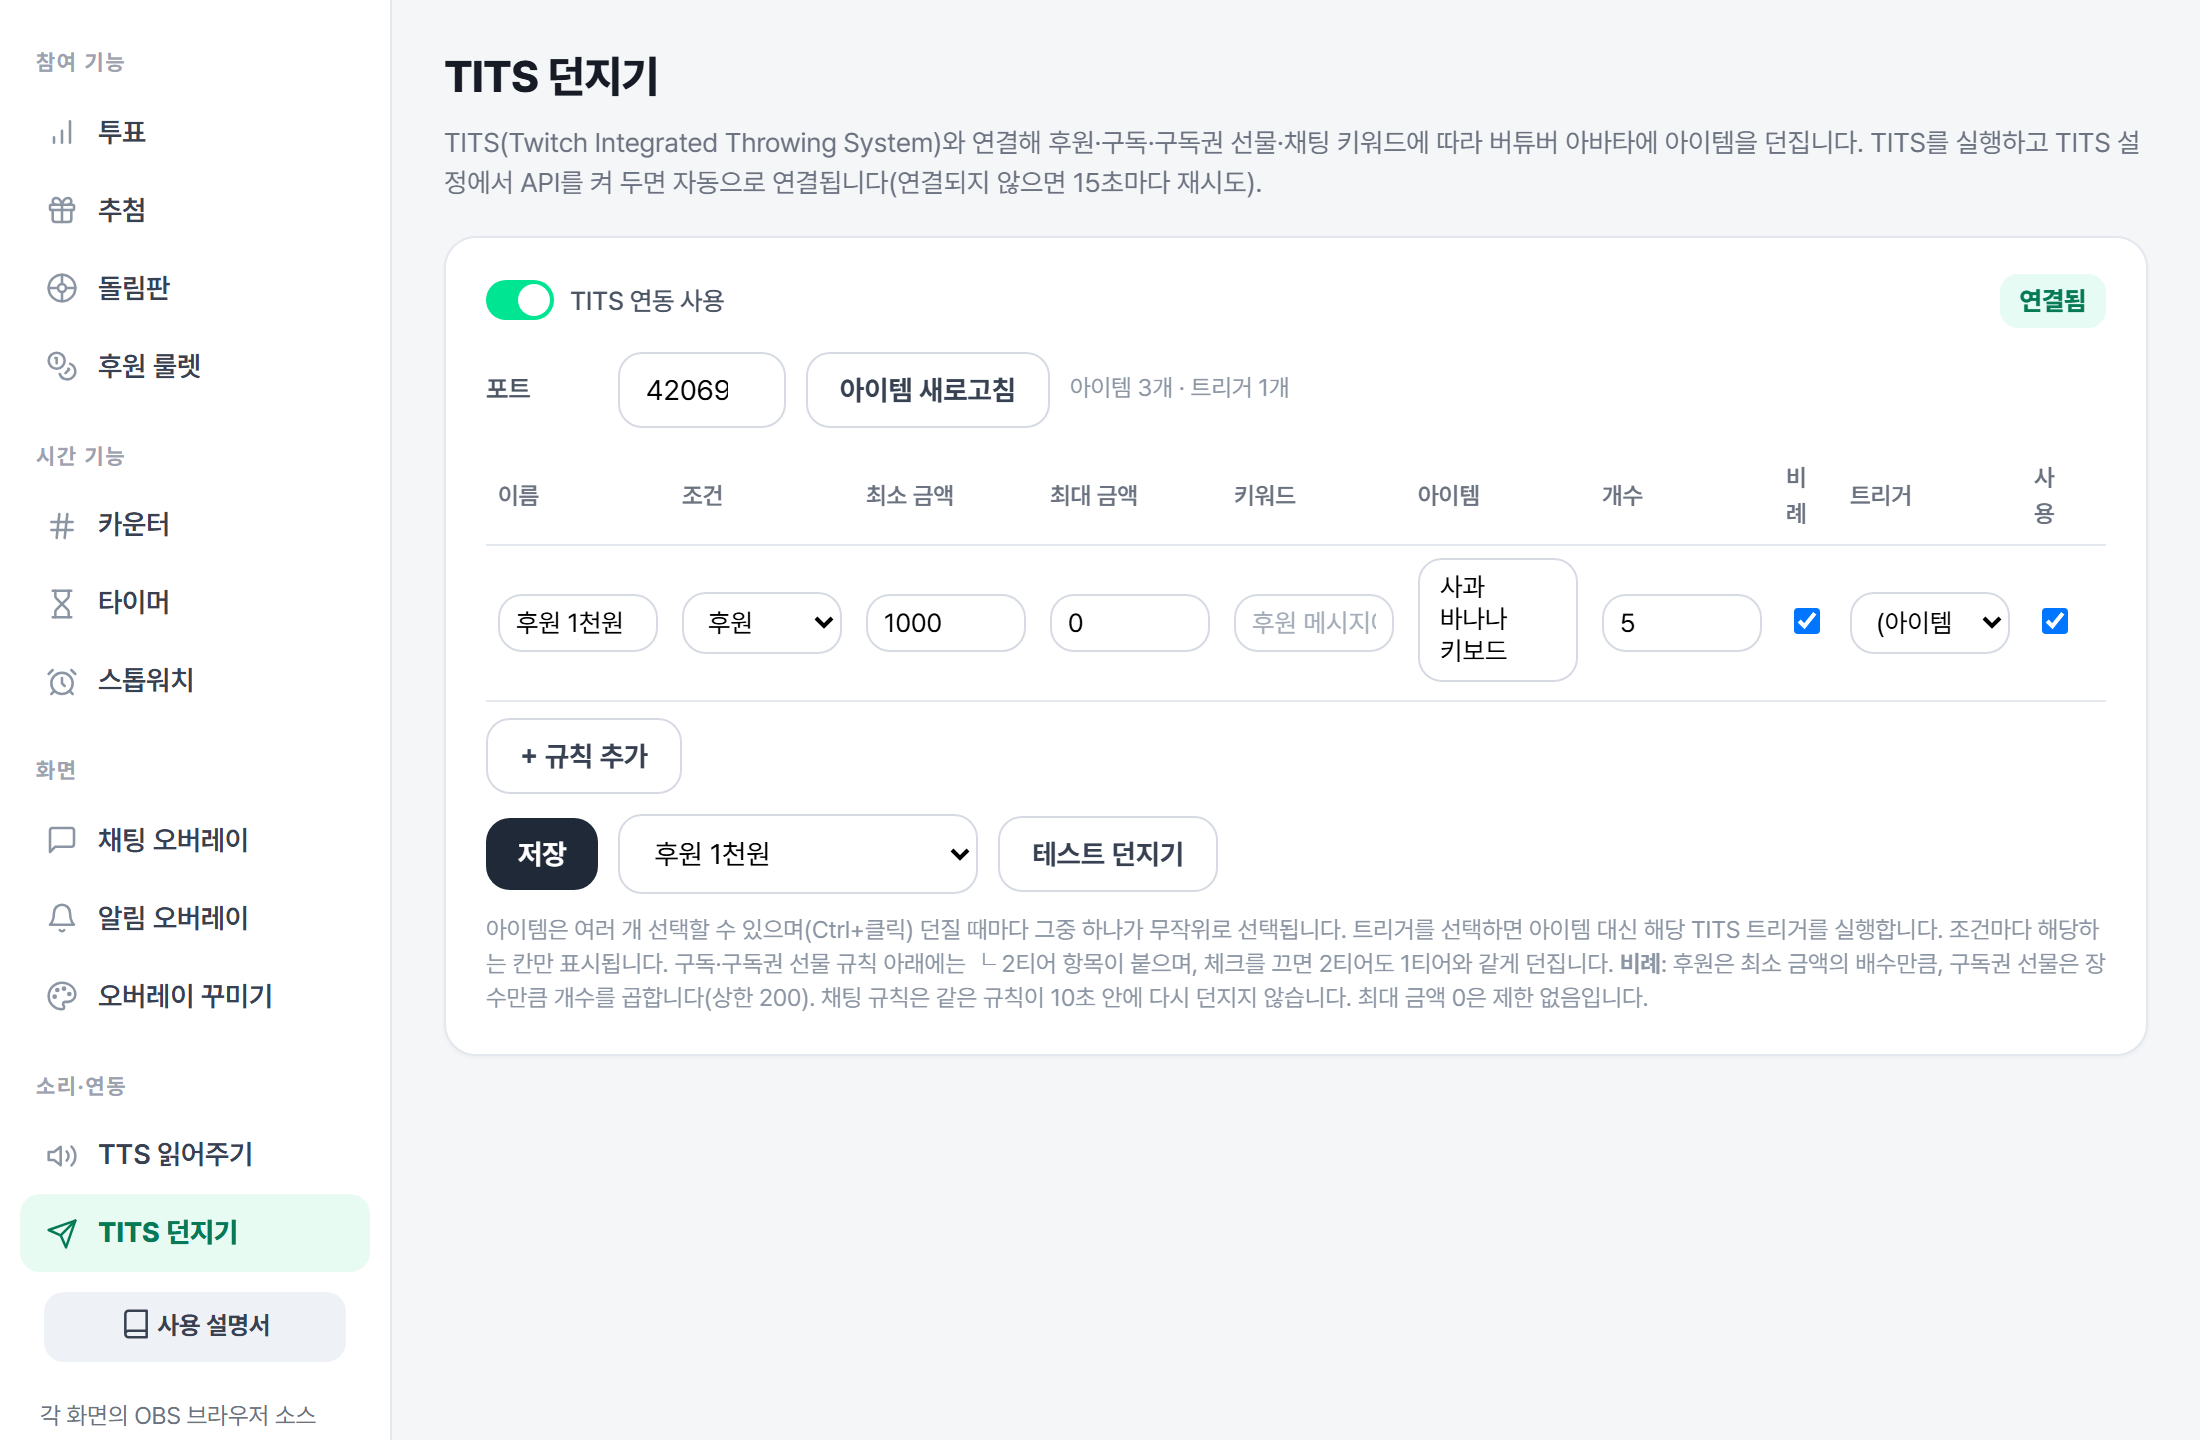
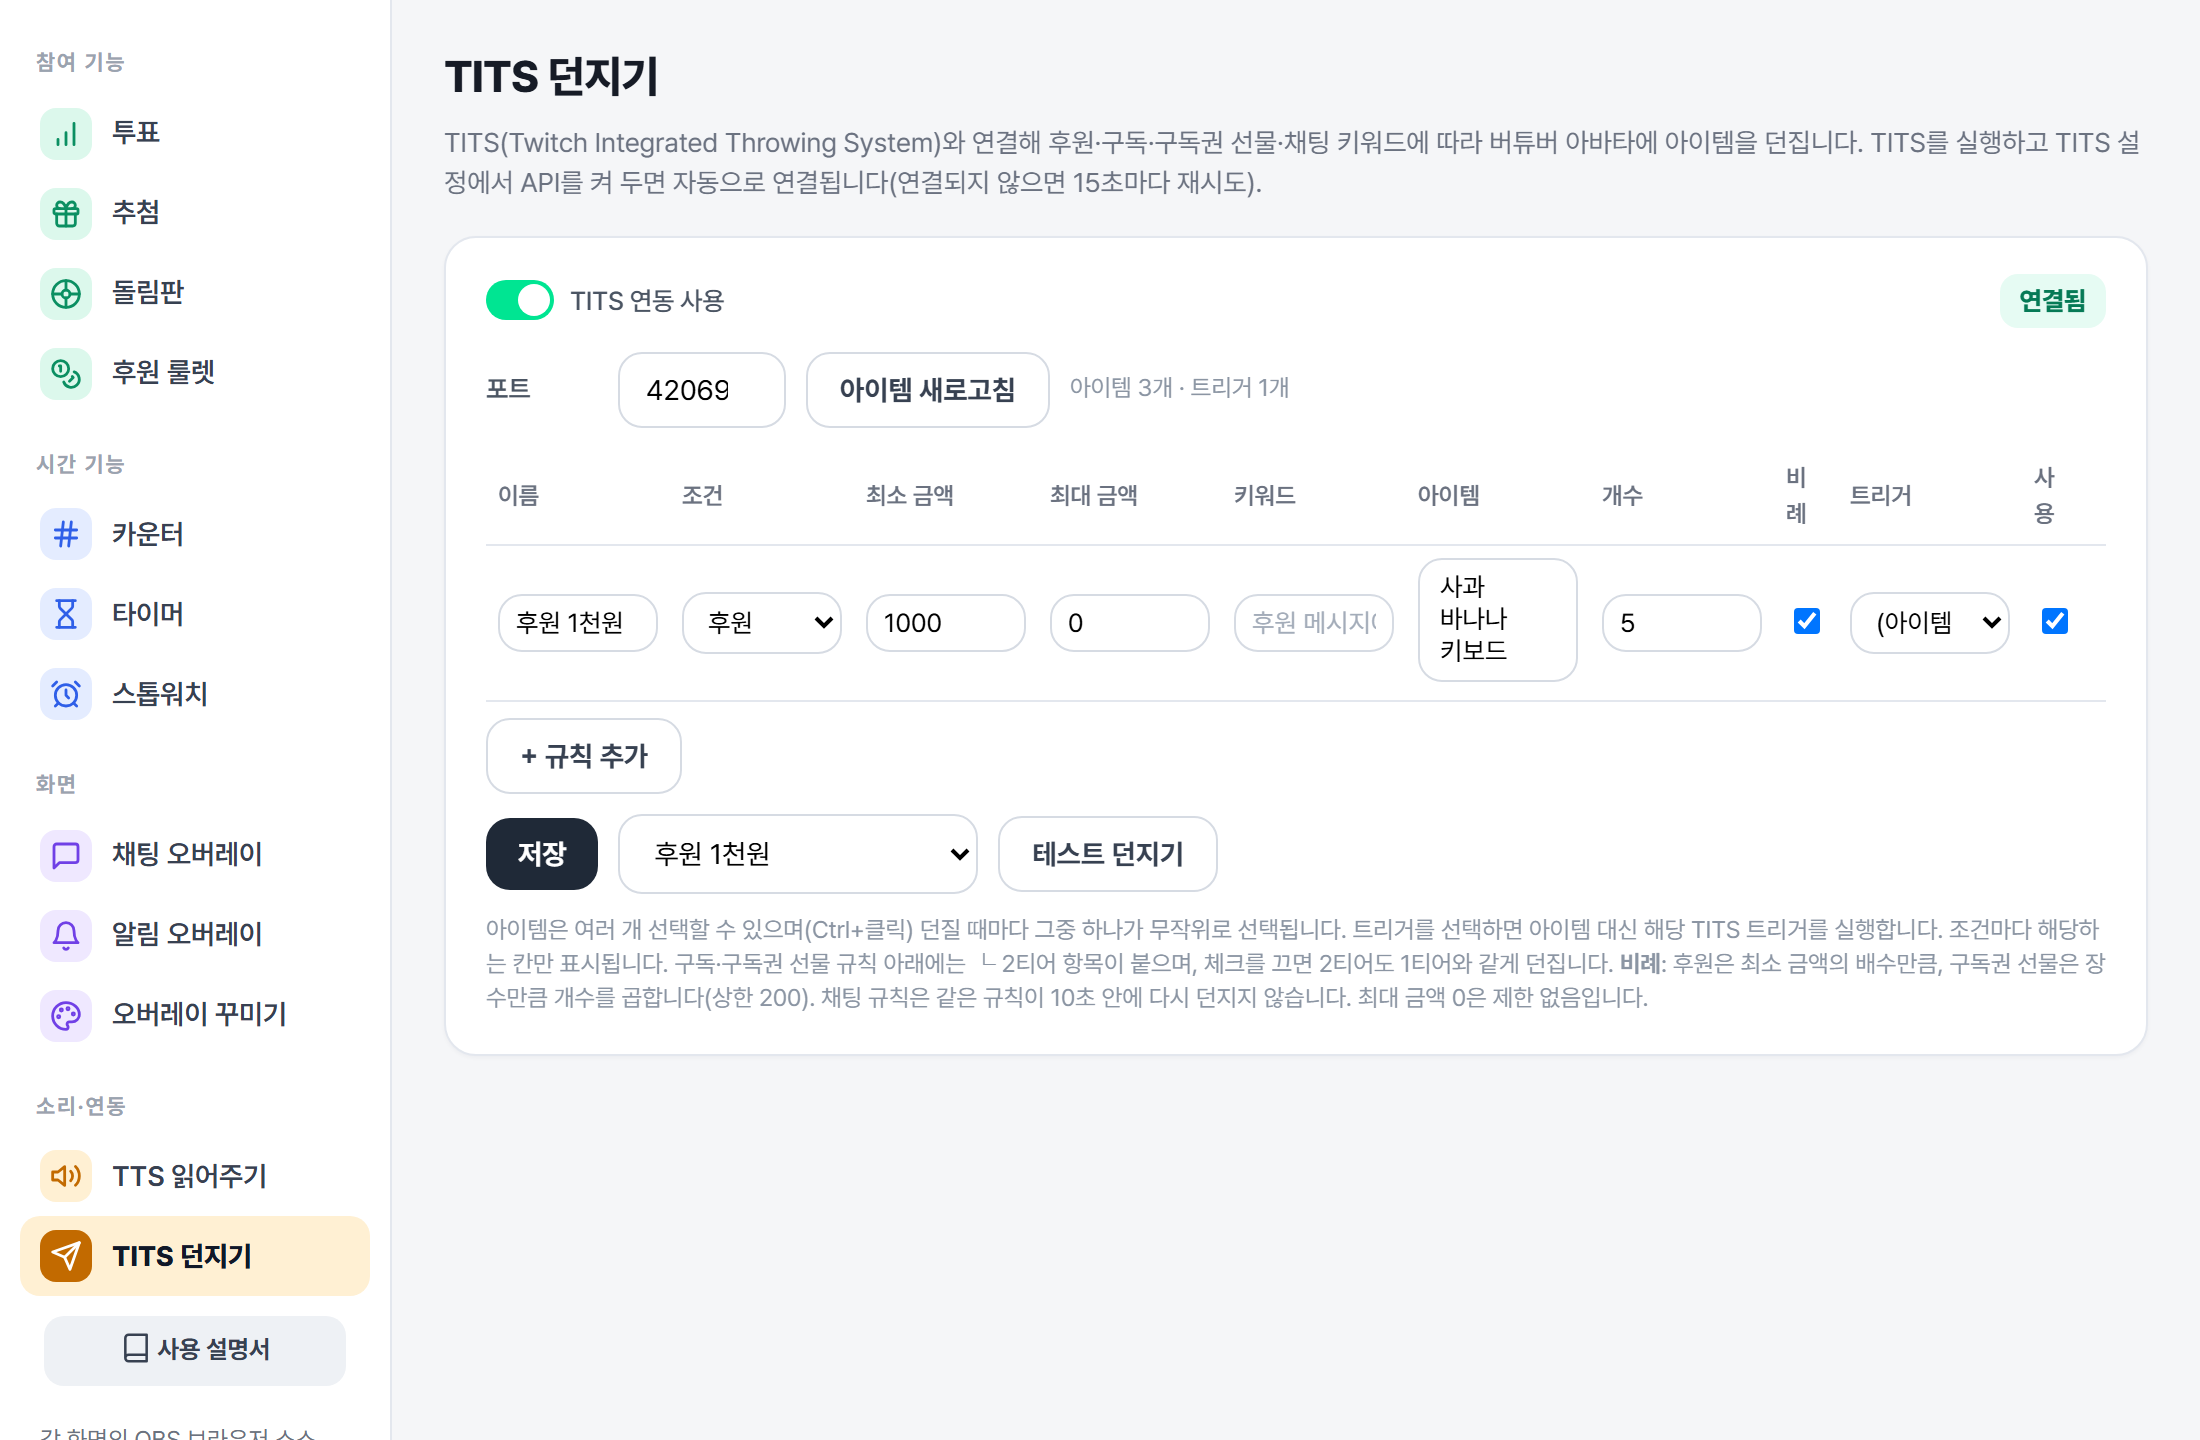
앱 화면 사진 재촬영: 목차 아이콘을 그룹 색 타일로(초록·파랑·보라·주황), 홈 합성 v12

diff --git a/guide/overlay/index.html b/guide/overlay/index.html
@@ -158,7 +158,7 @@
       </ul>
 
       <h2 id="chat">채팅 오버레이</h2>
-      <img src="/img/shots/features-chat.png?v=190924" width="1100" height="720" alt="아인 기능 창 — 채팅 오버레이 화면. 프리셋, 글꼴, 크기, 닉네임 색, 배경, 테두리 설정과 오른쪽 미리보기" loading="lazy">
+      <img src="/img/shots/features-chat.png?v=190924b" width="1100" height="720" alt="아인 기능 창 — 채팅 오버레이 화면. 프리셋, 글꼴, 크기, 닉네임 색, 배경, 테두리 설정과 오른쪽 미리보기" loading="lazy">
       <p>방송 화면에 채팅을 띄웁니다. 기본은 <b>흰 둥근 상자에 검은 글씨</b>입니다. 닉네임 옆 아이콘은 치지직 채팅창이 주는 배지(방장 왕관, 관리자, 구독 배지 등)만 그리고, 아인이 따로 붙이는 표시는 없습니다. 닉네임 색과 꾸미기(치트키 색, 2티어 그라데이션·하이라이트)도 치지직 채팅창과 같은 규칙으로 나옵니다.</p>
       <div class="tbl"><table>
         <tr><th>항목</th><th>뜻</th></tr>
@@ -217,7 +217,7 @@
       </ul>
 
       <h2 id="tits">TITS 던지기</h2>
-      <img src="/img/shots/features-tits.png?v=190924" width="1100" height="720" alt="아인 기능 창 — TITS 던지기 화면. 연결됨 표시, 포트, 아이템 새로고침, 규칙표(조건·금액·키워드·아이템·개수·비례·트리거)" loading="lazy">
+      <img src="/img/shots/features-tits.png?v=190924b" width="1100" height="720" alt="아인 기능 창 — TITS 던지기 화면. 연결됨 표시, 포트, 아이템 새로고침, 규칙표(조건·금액·키워드·아이템·개수·비례·트리거)" loading="lazy">
       <p>TITS(Twitch Integrated Throwing System)는 시청자가 버튜버 아바타에 물건을 던지게 하는 프로그램입니다. 원래 트위치·유튜브만 알아듣는데, 아인이 치지직의 후원·구독·구독권 선물·채팅을 TITS에 전달합니다.</p>
       <div class="note"><b>준비물.</b> VTube Studio(Steam, 무료)와 TITS(Steam, ₩21,500 · 유료). 둘 다 같은 PC에 설치합니다. 아인은 TITS의 공개 API(내 PC 안 포트 42069)로만 말하고 인터넷으로 나가지 않습니다.</div>
       <h3>연결 순서</h3>

diff --git a/guide/participation/index.html b/guide/participation/index.html
@@ -148,7 +148,7 @@
       </div>
 
       <h2 id="open">기능 창 여는 법</h2>
-      <img src="/img/shots/features-vote.png?v=190924" width="1100" height="720" alt="아인 기능 창 — 투표 화면. 질문과 보기 입력, 시간 선택, 투표 시작 버튼, 오른쪽에 실시간 집계" loading="lazy">
+      <img src="/img/shots/features-vote.png?v=190924b" width="1100" height="720" alt="아인 기능 창 — 투표 화면. 질문과 보기 입력, 시간 선택, 투표 시작 버튼, 오른쪽에 실시간 집계" loading="lazy">
       <p>아인 창에서 <b>봇을 켠 다음</b> [⚙ 설정] 아래의 <b>[✦ 기능]</b> 버튼을 누르세요. 투표와 추첨이 채팅을 읽어야 하기 때문에 봇이 꺼져 있으면 열리지 않습니다.
         창 왼쪽 목록에서 투표·추첨·돌림판·후원 룰렛(참여 기능)과 카운터·타이머·스톱워치(시간 기능)를 고릅니다. 채팅·알림 오버레이(화면)와 TTS·TITS(소리·연동)는 <a href="/guide/overlay/">화면·소리 가이드</a>에 따로 정리했습니다.</p>
       <p>이 창은 봇이 켜져 있는 동안 내 컴퓨터 안에서만 동작합니다. 다른 사이트에 접속하거나 별도로 가입할 것이 없습니다.</p>
@@ -196,7 +196,7 @@
         <li>결과는 날짜와 함께 기록에 남아 나중에 볼 수 있습니다.</li>
       </ul>
 
-      <img src="/img/shots/features-wheel.png?v=190924" width="1100" height="720" alt="아인 기능 창 — 돌림판 화면. 항목·확률·색 표와 미리보기 원판, 돌리기 버튼" loading="lazy">
+      <img src="/img/shots/features-wheel.png?v=190924b" width="1100" height="720" alt="아인 기능 창 — 돌림판 화면. 항목·확률·색 표와 미리보기 원판, 돌리기 버튼" loading="lazy">
 
       <h2 id="roulette">후원 룰렛</h2>
       <p>정해 둔 금액이 후원되면 방송 화면에서 룰렛이 <b>자동으로</b> 돌고, 다 돌면 결과가 채팅에 올라갑니다. <b>처음에는 꺼져 있습니다.</b> 쓰려면 [후원 룰렛 사용] 스위치를 켜고 [저장]을 누르세요. 끄면 새 후원부터 멈추고, 이미 들어온 후원의 회전은 마저 돕니다. 규칙은 여러 개 둘 수 있습니다.</p>

diff --git a/guide/commands/index.html b/guide/commands/index.html
@@ -269,7 +269,7 @@
 
       <h2 id="settings">문구와 이름 바꾸기</h2>
       <p>아인 창의 [설정]을 누르면 브라우저에 설정 화면이 열립니다. <b>명령어 설정</b> 항목에서 아래를 바꿀 수 있고, 저장하면 봇이 켜진 상태에서도 바로 반영됩니다. API 키나 봇 계정을 바꿨을 때만 봇을 껐다 켜면 됩니다.</p>
-      <img src="/img/settings.png?v=190924" alt="아인 설정 창 — 기본 설정 화면. 왼쪽 목록에 계정·채팅·기타 항목, 오른쪽에 시청자 호칭·명령어 앞 기호·대기시간 칸" width="1040" height="720" loading="lazy">
+      <img src="/img/settings.png?v=190924b" alt="아인 설정 창 — 기본 설정 화면. 왼쪽 목록에 계정·채팅·기타 항목, 오른쪽에 시청자 호칭·명령어 앞 기호·대기시간 칸" width="1040" height="720" loading="lazy">
       <ul>
         <li><b>시청자를 부르는 방식</b>: 기본은 "{이름} 치수". "{이름} 님", "{이름}아" 처럼 방송 분위기에 맞게.</li>
         <li><b>명령어 앞 기호</b>: 기본은 <code>!</code>. 다른 봇과 겹치면 <code>?</code>나 <code>#</code>으로.</li>

diff --git a/guide/install/index.html b/guide/install/index.html
@@ -240,7 +240,7 @@
             <img src="/img/chzzk-profile-edit.png" alt="치지직 프로필 편집 창 — 닉네임 칸과 30일 변경 제한 안내" width="352" loading="lazy">
           </li>
           <li>연결은 <b>[봇 계정으로 로그인]</b> 버튼 하나입니다 (1.8). 초기 설정 3단계나 [설정] → 봇 계정에서 누르면 로그인 창이 열리고, 거기서 <b>부계정으로</b> 로그인하면 아인이 알아서 저장하고 창을 닫습니다. 예전처럼 브라우저 개발자 도구에서 쿠키를 복사할 필요가 없습니다. 봇이 돌아가는 동안 로그인이 자동으로 연장되어 매번 다시 하지 않아도 됩니다.
-            <img src="/img/bot-account.png?v=190924" alt="아인 설정 창의 봇 계정 화면 — [봇 계정으로 로그인] 버튼과 부계정 안내" width="1040" height="720" loading="lazy">
+            <img src="/img/bot-account.png?v=190924b" alt="아인 설정 창의 봇 계정 화면 — [봇 계정으로 로그인] 버튼과 부계정 안내" width="1040" height="720" loading="lazy">
           </li>
         </ul>
         <div class="warn">

diff --git a/index.html b/index.html
@@ -531,7 +531,7 @@
       </div>
       <div class="scr rev reveal">
         <div class="txt"><b>기능 창에서 버튼으로</b><p>투표·추첨·돌림판·후원 룰렛, 카운터·타이머·스톱워치, 채팅·알림 오버레이, TTS·TITS를 한 창에서 다룹니다. 명령어를 외울 것이 없고, 각 화면의 URL을 OBS에 한 번 넣으면 끝입니다.</p></div>
-        <div class="pic"><img src="/img/shots/features-3d-v11.webp" width="3180" height="2394" alt="아인 1.9 기능 창 — 추첨 화면. 왼쪽 목록에 참여·시간·화면·소리 연동 항목과 사용 설명서 버튼, 모집 마감 버튼, 명단 표시·자동 채팅 띄우기·TTS 스위치, 참여자 15명" loading="lazy"></div>
+        <div class="pic"><img src="/img/shots/features-3d-v12.webp" width="3180" height="2394" alt="아인 1.9 기능 창 — 추첨 화면. 왼쪽 목록에 참여·시간·화면·소리 연동 항목과 사용 설명서 버튼, 모집 마감 버튼, 명단 표시·자동 채팅 띄우기·TTS 스위치, 참여자 15명" loading="lazy"></div>
       </div>
     </div>
   </div>

diff --git a/guide/time/index.html b/guide/time/index.html
@@ -160,7 +160,7 @@
       </div>
       <p>문구는 기능 창에서 바꿉니다. <code>{이름}</code> 자리에 타이머 이름이 들어갑니다. 멈춰 있을 때 화면에서 감추려면 주소 뒤에 <code>?autohide=1</code>.</p>
 
-      <img src="/img/shots/features-timer.png?v=190924" width="1100" height="720" alt="아인 기능 창 — 타이머 화면. 5분·10분·30분·1시간·직접 선택, 시작 버튼, 끝나면 채팅 알리기" loading="lazy">
+      <img src="/img/shots/features-timer.png?v=190924b" width="1100" height="720" alt="아인 기능 창 — 타이머 화면. 5분·10분·30분·1시간·직접 선택, 시작 버튼, 끝나면 채팅 알리기" loading="lazy">
 
       <h2 id="stopwatch">스톱워치</h2>
       <p><b>[시작]</b>으로 재기 시작해 <b>[정지]</b>로 멈추고 <b>[계속]</b>으로 이어 잽니다. <b>[랩]</b>을 누르면 그 순간의 기록이 아래에 쌓입니다(최근 20개). 0.1초 단위로 보입니다.</p>
